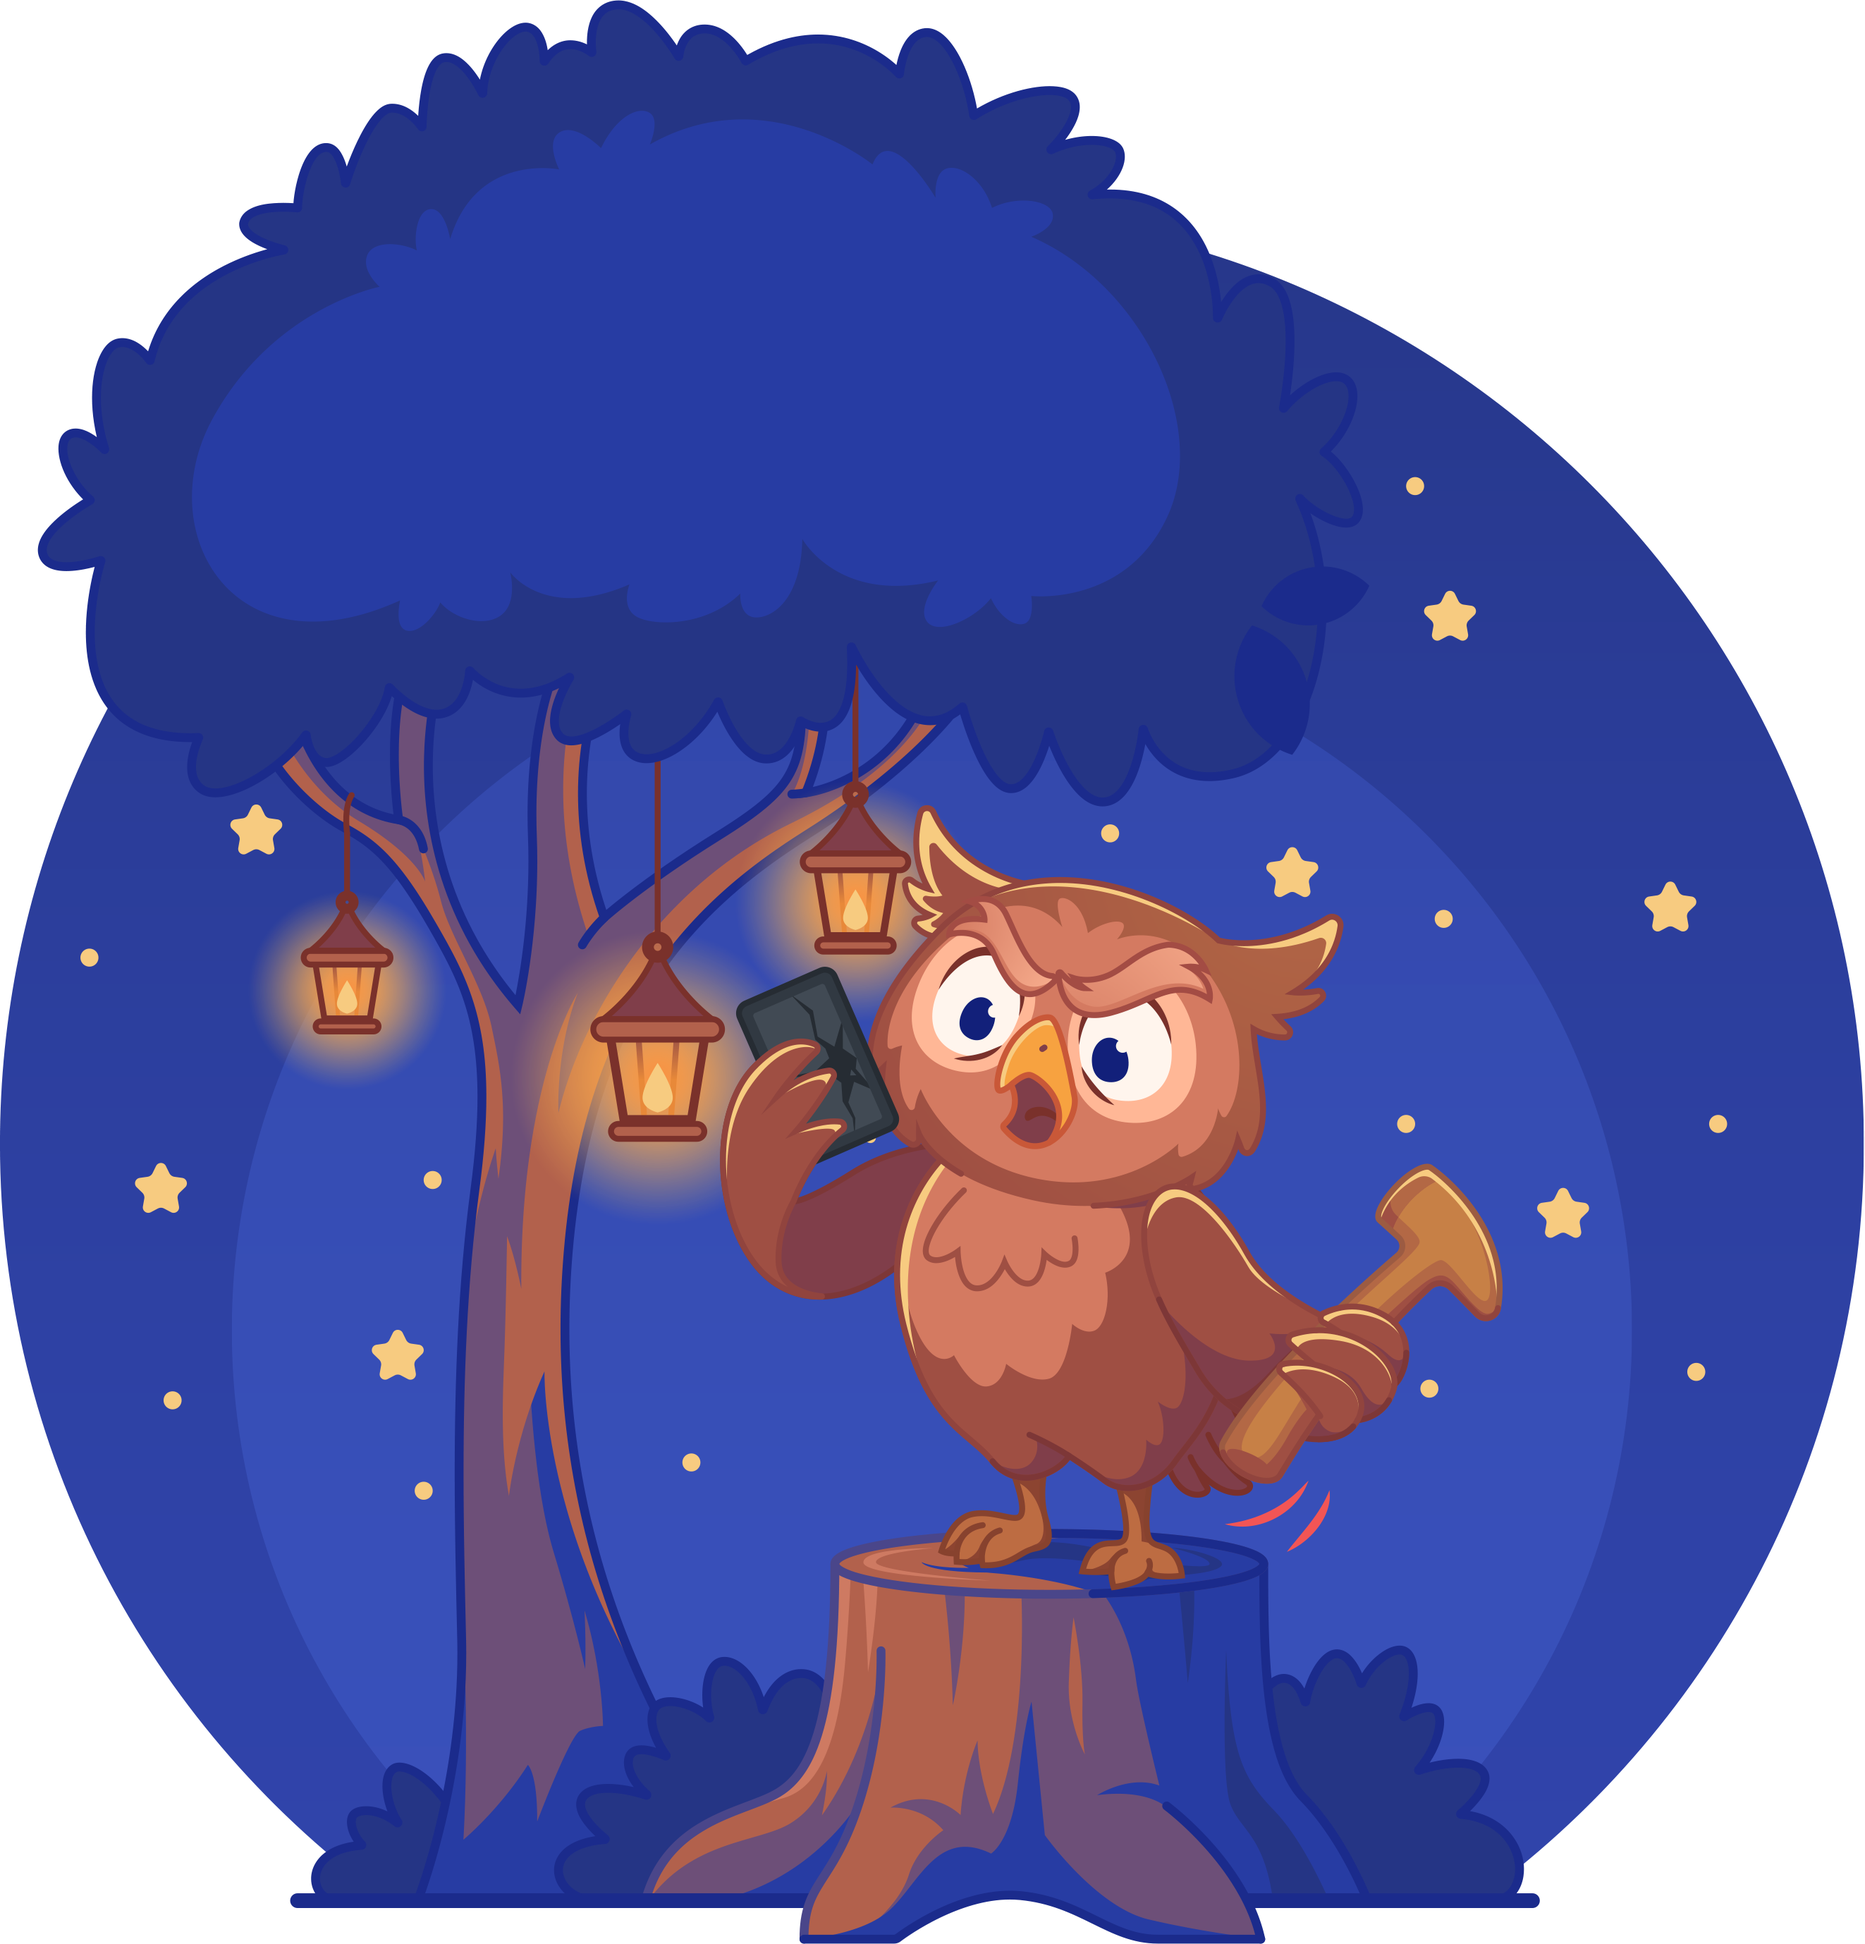
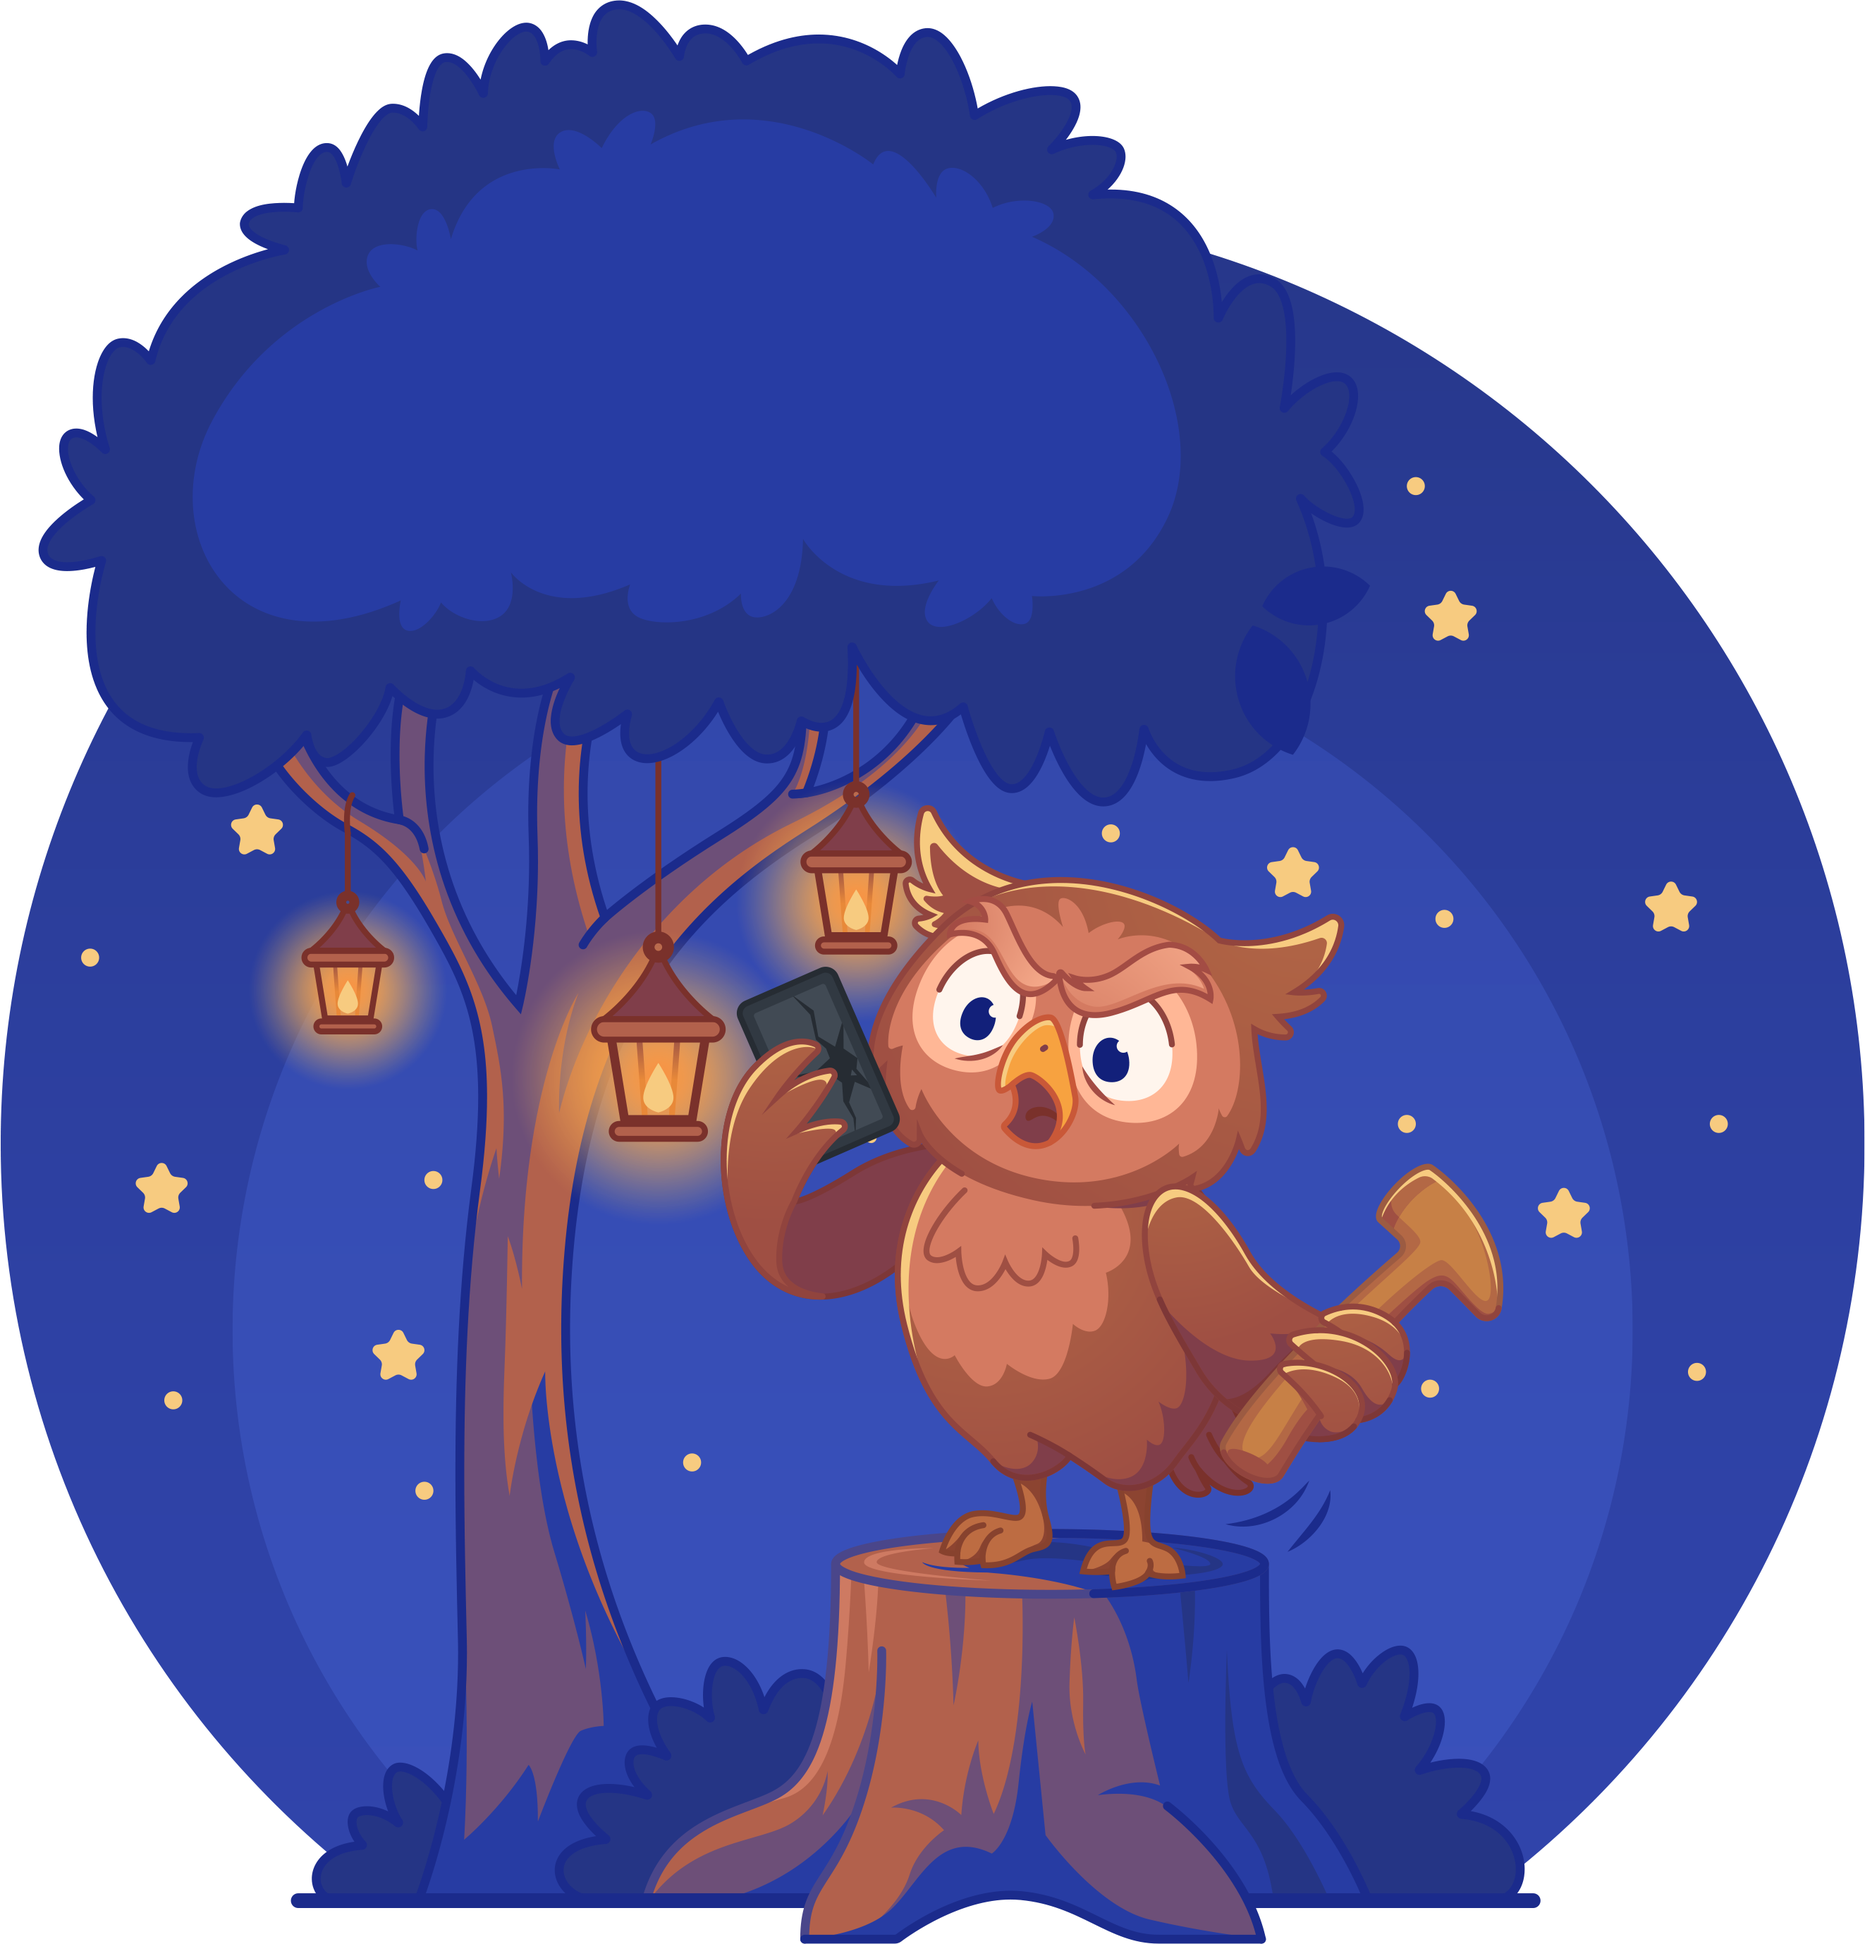
:bento: Add more app artwork

Changed region(s): [[0.682, 0.7486, 0.713, 0.811], [0.558, 0.5303, 0.589, 0.5615]]

diff --git a/apps/expo/components/ServerConnectFailed.tsx b/apps/expo/components/ServerConnectFailed.tsx
@@ -1,9 +1,9 @@
 import { useRouter } from 'expo-router'
-import { WifiOff } from 'lucide-react-native'
 import { View } from 'react-native'
 import { SafeAreaView } from 'react-native-safe-area-context'
 
-import { Button, Heading, Icon, Text } from './ui'
+import Owl, { useOwlHeaderOffset } from './Owl'
+import { Button, Heading, Text } from './ui'
 
 type Props = {
 	onRetry?: () => void
@@ -11,34 +11,42 @@ type Props = {
 
 export default function ServerConnectFailed({ onRetry }: Props) {
 	const router = useRouter()
+	const emptyContainerStyle = useOwlHeaderOffset()
 
 	return (
-		<SafeAreaView className="flex-1 bg-background p-4">
-			<View className="flex-1 gap-4">
-				<Heading size="xl" className="text-center">
-					Failed to Connect
-				</Heading>
+		<SafeAreaView className="flex-1 bg-background">
+			<View
+				className="h-full flex-1 items-center justify-center gap-8 p-4"
+				style={emptyContainerStyle}
+			>
+				<Owl owl="network-error" />
 
-				<View className="relative flex flex-row justify-center">
-					<View className="squircle flex items-center justify-center rounded-lg bg-background-surface p-2">
-						<Icon as={WifiOff} className="h-10 w-10 text-foreground-muted" />
-					</View>
+				<View className="gap-2 px-4 tablet:max-w-lg">
+					<Heading size="xl" className="text-center font-semibold leading-tight">
+						Failed to Connect
+					</Heading>
+
+					<Text size="lg" className="text-center">
+						A network error suggests this server is currently unavailable. Please ensure that it is
+						running and accessible from this device
+					</Text>
 				</View>
 
-				<Text size="lg" className="text-center">
-					A network error suggests this server is currently unavailable. Please ensure that it is
-					running and accessible from this device
-				</Text>
+				<View className="flex-1" />
 
-				<View />
-
-				<View className="flex-row justify-center">
-					<Button variant="brand" onPress={() => router.dismissAll()}>
+				<View className="w-full gap-3">
+					<Button variant="brand" size="lg" roundness="full" onPress={() => router.dismissAll()}>
 						<Text>Return Home</Text>
 					</Button>
 
 					{onRetry && (
-						<Button variant="secondary" className="ml-2" onPress={onRetry}>
+						<Button
+							variant="secondary"
+							size="lg"
+							roundness="full"
+							className="ml-2"
+							onPress={onRetry}
+						>
 							<Text>Try Again</Text>
 						</Button>
 					)}

diff --git a/apps/expo/components/Owl.tsx b/apps/expo/components/Owl.tsx
@@ -86,21 +86,46 @@ const defaultSize = (width: number, height: number) => {
 // - Network error
 // - No content empty state? (More specific than the generic empty owl)
 
-type OwlType = 'empty' | 'error'
+type OwlType =
+	| 'search'
+	| 'construction'
+	| 'developing'
+	| 'shrug'
+	| 'empty'
+	| 'error'
+	| 'network-error'
 
 const OWL_REQUIRES = [
-	require('../assets/images/owls/owl-basic-empty-dark.png'),
-	require('../assets/images/owls/owl-basic-empty-light.png'),
+	require('../assets/images/owls/owl-construction-dark.png'),
+	require('../assets/images/owls/owl-construction-light.png'),
+	require('../assets/images/owls/owl-developing-dark.png'),
+	require('../assets/images/owls/owl-developing-light.png'),
+	require('../assets/images/owls/owl-empty-bookcase-dark.png'),
+	require('../assets/images/owls/owl-empty-bookcase-light.png'),
 	require('../assets/images/owls/owl-error-dark.png'),
 	require('../assets/images/owls/owl-error-light.png'),
+	require('../assets/images/owls/owl-search-dark.png'),
+	require('../assets/images/owls/owl-search-light.png'),
+	require('../assets/images/owls/owl-shrug-dark.png'),
+	require('../assets/images/owls/owl-shrug-light.png'),
 ]
 
 const getOwl = (owl: OwlType, assets: Array<Asset>, isDark: boolean): Asset | undefined => {
 	switch (owl) {
-		case 'empty':
+		case 'search':
+			return isDark ? assets[8] : assets[9]
+		case 'construction':
 			return isDark ? assets[0] : assets[1]
-		case 'error':
+		case 'developing':
 			return isDark ? assets[2] : assets[3]
+		case 'shrug':
+			return isDark ? assets[10] : assets[11]
+		case 'empty':
+			return isDark ? assets[4] : assets[5]
+		case 'error':
+			return isDark ? assets[6] : assets[7]
+		case 'network-error':
+			return isDark ? assets[6] : assets[7] // TODO: Replace with network error once completed
 	}
 }
 

diff --git a/apps/expo/components/Unimplemented.tsx b/apps/expo/components/Unimplemented.tsx
@@ -1,17 +1,41 @@
-import { PackageX } from 'lucide-react-native'
+import { useRouter } from 'expo-router'
 import { View } from 'react-native'
 
-import { Icon, Text } from './ui'
+import Owl, { useOwlHeaderOffset } from './Owl'
+import { Button, Heading, Text } from './ui'
+
+const DEFAULT_TEXT = 'This feature is not yet implemented. Please check back later!'
 
 type Props = {
 	message?: string
 }
 
-export default function Unimplemented({ message = 'This feature is not yet implemented' }: Props) {
+export default function Unimplemented({ message = DEFAULT_TEXT }: Props) {
+	const emptyContainerStyle = useOwlHeaderOffset()
+	const router = useRouter()
+
 	return (
-		<View className="squircle m-6 flex-1 items-center justify-center gap-5 rounded-2xl border border-dashed border-edge">
-			<Icon as={PackageX} className="h-10 w-10 text-foreground-muted" />
-			<Text>{message}</Text>
+		<View
+			className="h-full flex-1 items-center justify-center gap-8 p-4"
+			style={emptyContainerStyle}
+		>
+			<Owl owl="construction" />
+
+			<View className="gap-2 px-4 tablet:max-w-lg">
+				<Heading size="xl" className="text-center font-semibold leading-tight">
+					Coming Soon!
+				</Heading>
+
+				<Text size="lg" className="text-center">
+					{message}
+				</Text>
+			</View>
+
+			<View className="w-full gap-3">
+				<Button variant="secondary" size="lg" roundness="full" onPress={() => router.back()}>
+					<Text>Okay</Text>
+				</Button>
+			</View>
 		</View>
 	)
 }

diff --git a/apps/expo/app/server/[id]/(tabs)/search/index.tsx b/apps/expo/app/server/[id]/(tabs)/search/index.tsx
@@ -2,12 +2,12 @@ import { useSDK } from '@stump/client'
 import { useQueryClient } from '@tanstack/react-query'
 import { useNavigation, useRouter } from 'expo-router'
 import debounce from 'lodash/debounce'
-import { Search } from 'lucide-react-native'
 import { useCallback, useLayoutEffect, useState } from 'react'
 import { Platform, TextInputChangeEventData, View } from 'react-native'
 import { NativeSyntheticEvent } from 'react-native'
 
 import { useActiveServer } from '~/components/activeServer'
+import Owl from '~/components/Owl'
 import { Text } from '~/components/ui'
 import { IS_IOS_24_PLUS, useColors } from '~/lib/constants'
 
@@ -72,10 +72,16 @@ export default function Screen() {
 
 	return (
 		<View className="flex-1 items-center justify-center gap-4 bg-background p-4 tablet:p-7">
-			<Search className="h-8 w-8 text-foreground-muted" />
+			<Owl owl="search" />
 
-			<View>
-				<Text className="text-foreground-muted">Enter a search query to get started</Text>
+			<View className="gap-2 px-4 tablet:max-w-lg">
+				<Text size="xl" className="text-center font-semibold leading-tight">
+					Search the server
+				</Text>
+
+				<Text size="lg" className="text-center text-foreground-muted">
+					Enter a search query to find content on this server
+				</Text>
 			</View>
 		</View>
 	)

diff --git a/apps/expo/app/server/[id]/smart-lists/index.tsx b/apps/expo/app/server/[id]/smart-lists/index.tsx
@@ -1,21 +1,11 @@
-import { View } from 'react-native'
 import { SafeAreaView } from 'react-native-safe-area-context'
 
-import { Text } from '~/components/ui'
 import Unimplemented from '~/components/Unimplemented'
 
 export default function Screen() {
 	return (
 		<SafeAreaView className="flex-1 bg-background">
 			<Unimplemented />
-		</SafeAreaView>
-	)
-
-	return (
-		<SafeAreaView className="flex-1 bg-background">
-			<View className="flex-1 gap-5 p-4">
-				<Text className="text-3xl font-semibold">All smart lists</Text>
-			</View>
 		</SafeAreaView>
 	)
 }
